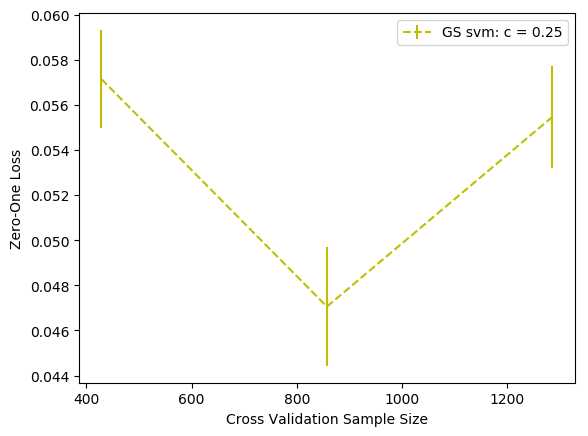
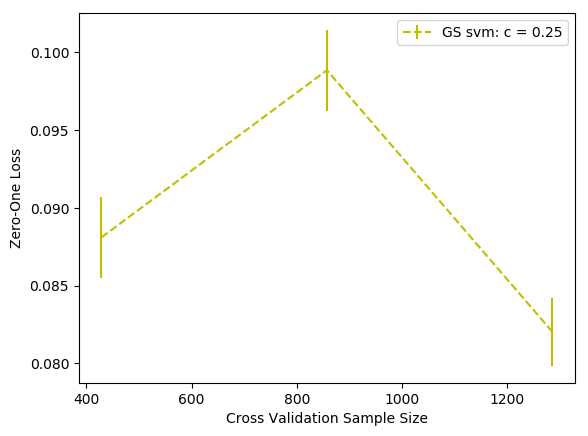
Updated greedy selection to no longer use validation data for learning...

diff --git a/main.py b/main.py
@@ -178,7 +178,13 @@ def greedy_subset_svm(tr_data, tr_labels, num_features, split_number):
         print('Fold: ' + str(i))
         cv_tr_data,cv_tr_labels,cv_te_data,cv_te_labels\
             = split_data(tr_data,tr_labels,split_number,i)
-        cv_training_data = np.array(cv_tr_data)
+        
+        # We want to use some of the training data as 'validation' data for picking
+        # the best subset.  We will use 90% of the data for training, 10% for validation.
+        cv_training_data = np.array(cv_tr_data[:int(len(cv_tr_data)*.9)])
+        cv_training_labels = cv_tr_labels[:int(len(cv_tr_labels)*.9)]
+        cv_validation_data = np.array(cv_tr_data[int(len(cv_tr_data)*.9):])
+        cv_validation_labels = cv_tr_labels[int(len(cv_tr_labels)*.9):]
 
         ## NAIVE DECLARED HERE TO BE INIT-ed WITH THE DATA FOR CROSS VALIDATION
         # nb = MultinomialNB()
@@ -202,9 +208,9 @@ def greedy_subset_svm(tr_data, tr_labels, num_features, split_number):
                 data[:, list(params_to_keep)] = cv_training_data[:, list(params_to_keep)]
                 params_to_keep.discard(k)
 
-                svm.fit(data, cv_tr_labels)
-                preds = svm.predict(cv_te_data)
-                loss = zero_one_loss(preds, cv_te_labels)
+                svm.fit(data, cv_training_labels)
+                preds = svm.predict(cv_validation_data)
+                loss = zero_one_loss(preds, cv_validation_labels)
                 if (loss <= best_loss):
                     best_feature = k
                     best_loss = loss
@@ -214,7 +220,8 @@ def greedy_subset_svm(tr_data, tr_labels, num_features, split_number):
         svm = LinearSVC(penalty = 'l2', C = 0.25, dual=False)
         data = np.zeros(cv_training_data.shape)
         data[:, list(params_to_keep)] = cv_training_data[:, list(params_to_keep)]
-        svm.fit(data, cv_tr_labels)
+        svm.fit(data, cv_training_labels)
+        # Use the real cross validation testing data now to get an accurate loss
         preds = svm.predict(cv_te_data)
         loss = zero_one_loss(preds, cv_te_labels)
         svm1.zero_one_loss += [loss]
